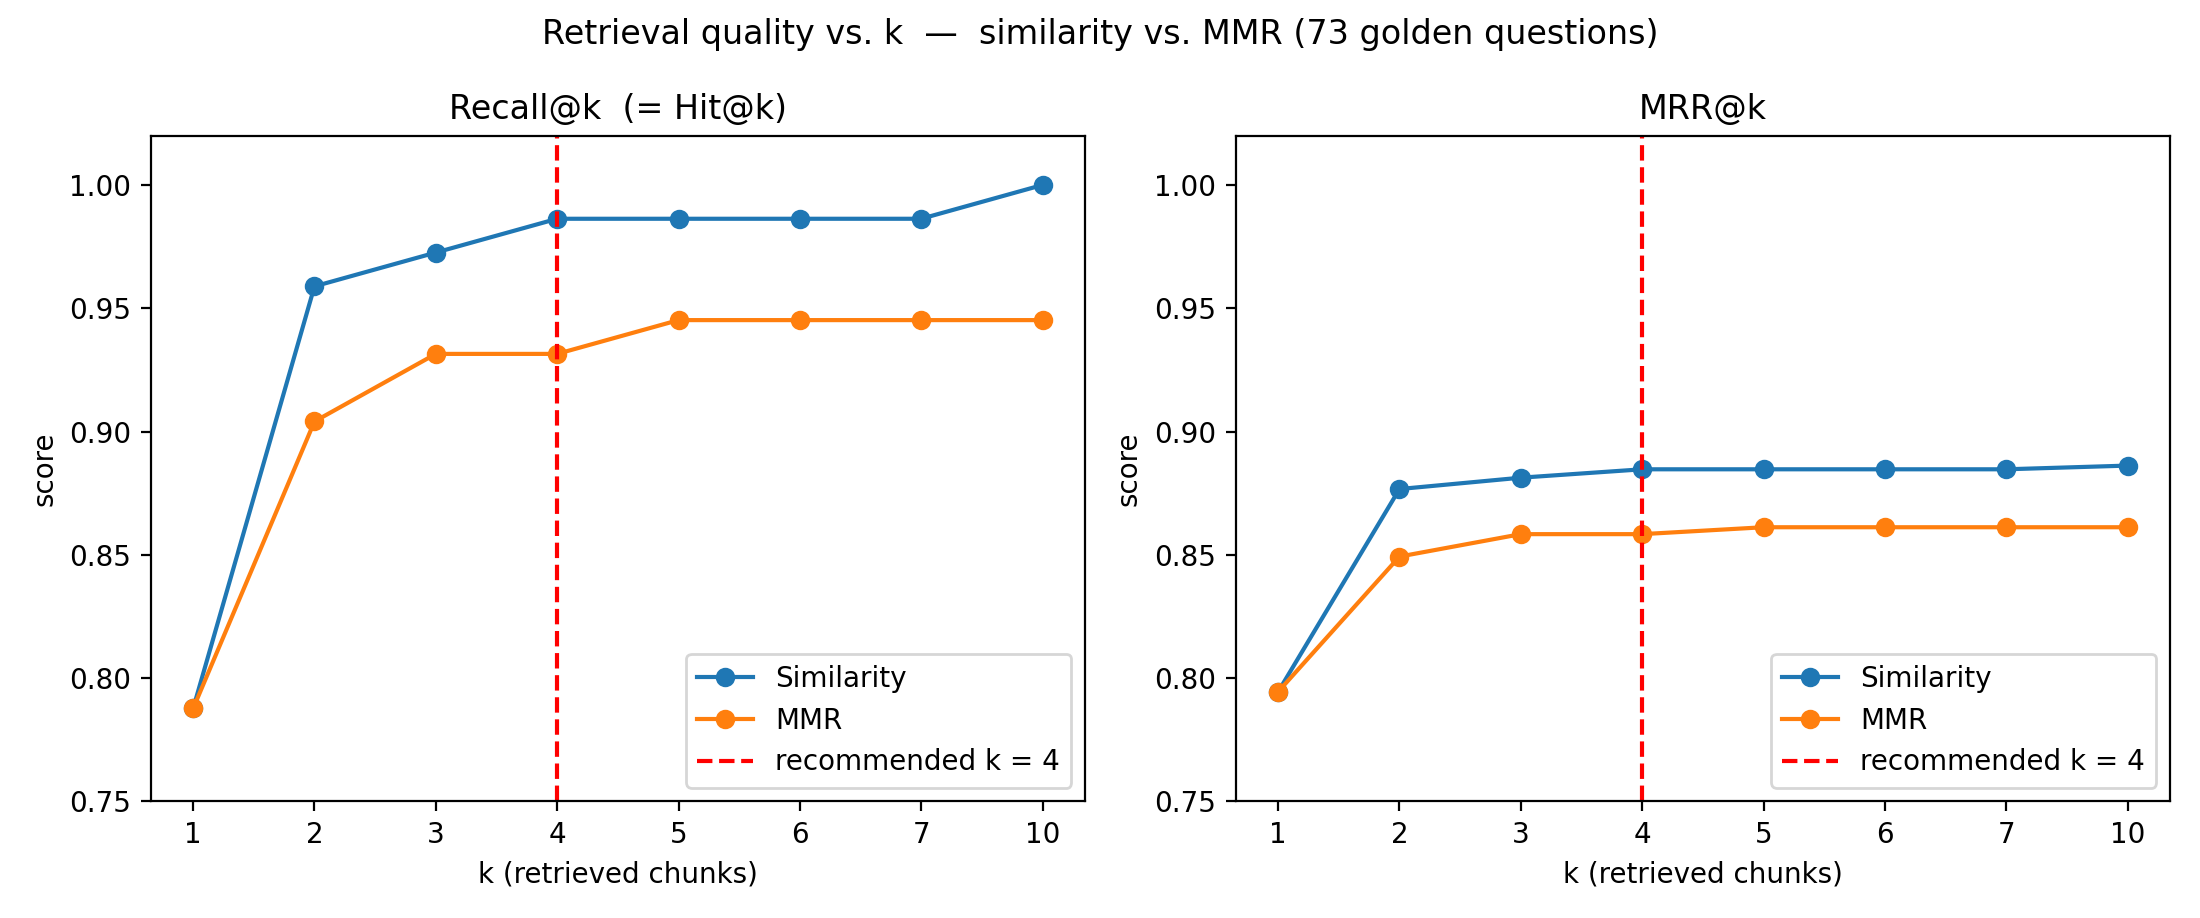
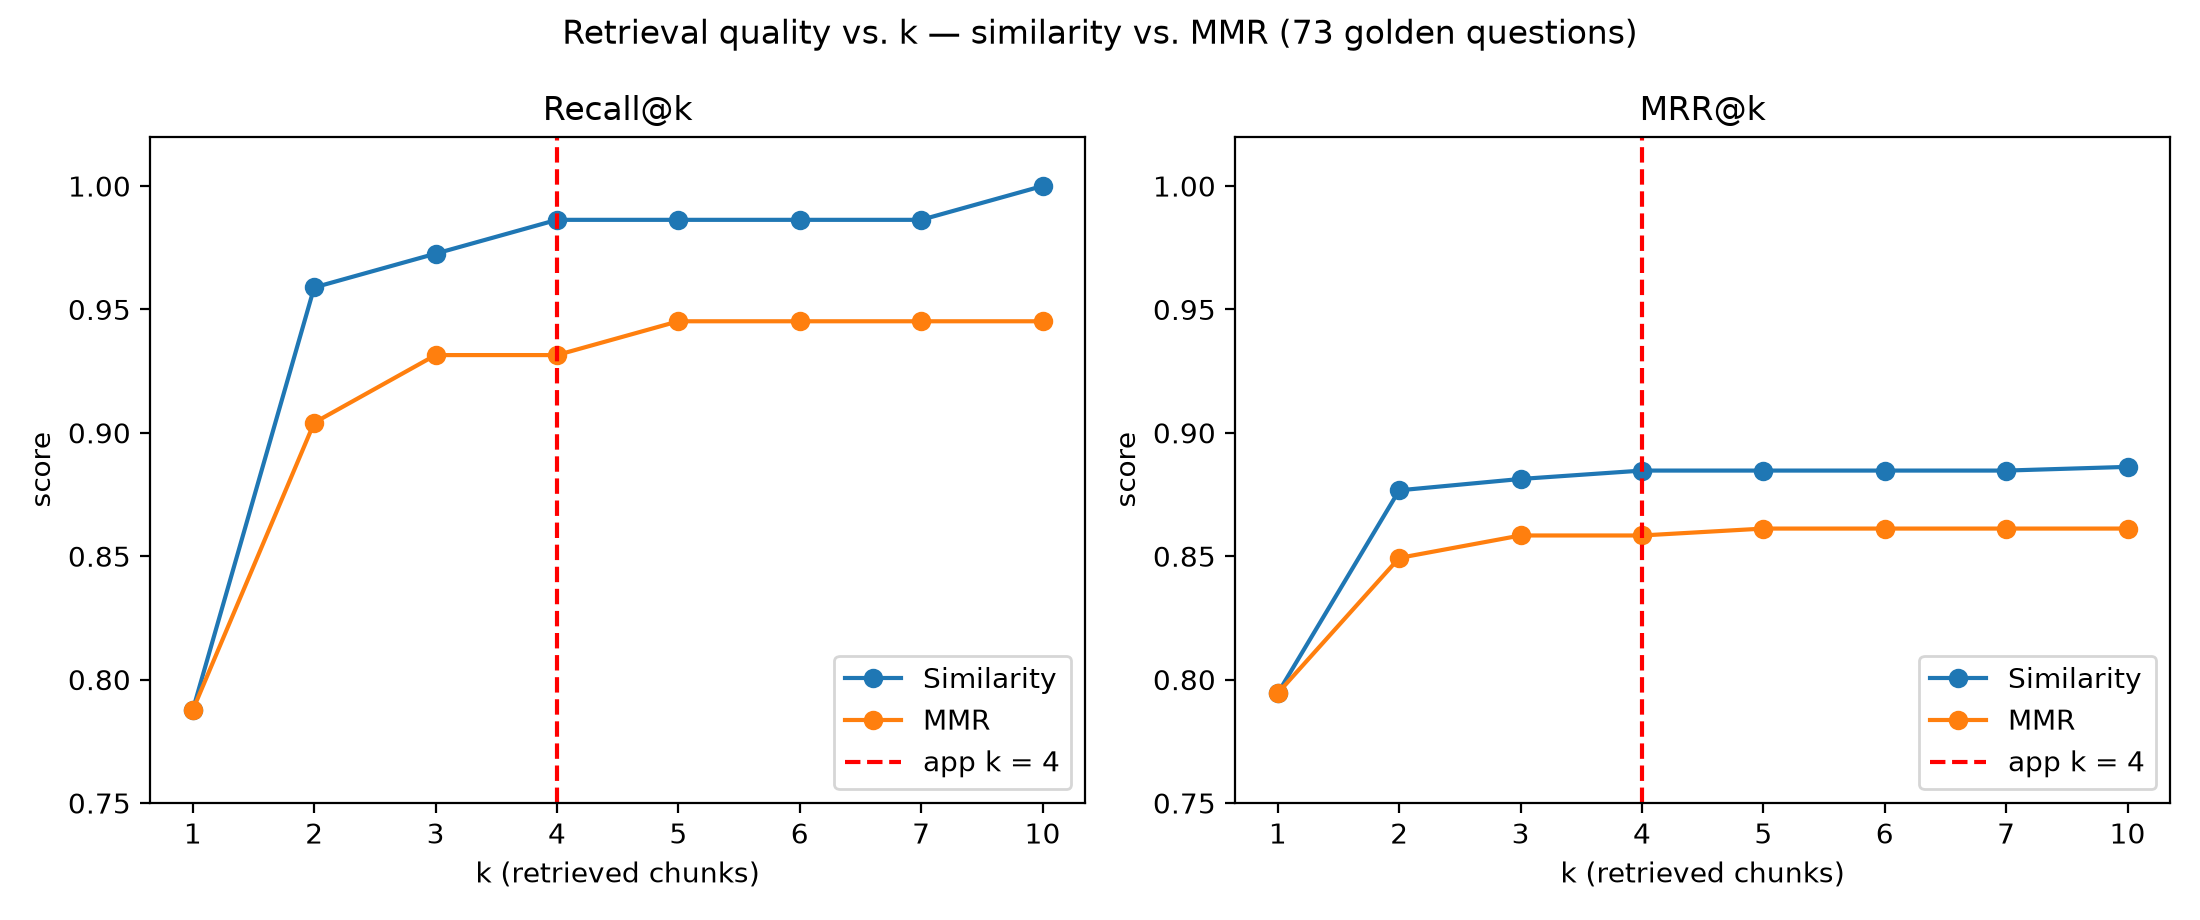
Generate all evaluation charts from code
plot_evals.py redraws the retrieval and generation charts from the saved
reports without loading any model; the charts were previously hand-made.
evaluate_retrieval.py now also saves the per-language breakdown it prints.

diff --git a/src/evaluation/plot_evals.py b/src/evaluation/plot_evals.py
@@ -1,0 +1,225 @@
+"""
+plot_evals.py — draw the evaluation charts from the saved reports.
+
+Reads what each eval script wrote to its reports dir and writes the charts next to it:
+
+  evals/retrieval/  from evaluate_retrieval.py (retrieval_eval.csv, retrieval_eval_by_lang.csv)
+    retrieval_eval.png               recall@k and MRR@k vs k, similarity vs MMR
+    retrieval_eval_by_language.png   hit@1, hit@k and MRR@k, Portuguese vs English
+  evals/generation/  from evaluate_generation.py (generation_eval.json, ragas_per_row.csv
+                     + the golden set)
+    generation_eval.png              RAGAS + refusal bars, and retrieval distance by type
+    generation_eval_by_language.png  the same scores split Portuguese vs English
+
+The k marked on the retrieval charts is the app's retrieval.k. Charts whose inputs are
+missing are skipped. No models are loaded, so it runs in seconds. matplotlib lives in
+the notebooks group:
+  uv run --group notebooks python src/evaluation/plot_evals.py
+"""
+
+import json
+import sys
+from pathlib import Path
+
+import matplotlib
+matplotlib.use("Agg")
+import matplotlib.pyplot as plt  # noqa: E402
+import pandas as pd  # noqa: E402
+
+sys.path.insert(0, str(Path(__file__).resolve().parent.parent))  # src/, for config
+from config import CFG, ROOT  # noqa: E402
+
+RETRIEVAL_DIR = CFG["paths"]["retrieval_reports"]
+GENERATION_DIR = CFG["paths"]["generation_reports"]
+GOLDEN_PATH = CFG["paths"]["golden"]
+APP_K = CFG["retrieval"]["k"]
+SEARCH_TYPE_LABELS = {"similarity": "Similarity", "mmr": "MMR"}
+
+NEGATIVE_TYPES = ("out_of_scope", "unanswerable_on_topic")
+METRICS = [("faithfulness", "Faithfulness"),
+           ("answer_relevancy", "Answer\nrelevancy"),
+           ("semantic_similarity", "Semantic\nsimilarity")]
+DISTANCE_ROWS = [("answerable", "Answerable", "tab:blue"),
+                 ("unanswerable_on_topic", "Unanswerable\non-topic", "tab:orange"),
+                 ("out_of_scope", "Out of scope", "tab:green")]
+LANGUAGES = [("pt", "Portuguese", "tab:blue"), ("en", "English", "tab:orange")]
+DISTANCE_CUTOFF = 0.50   # illustrative only; the app does not filter on distance
+
+
+def load_reports():
+    summary = json.loads((GENERATION_DIR / "generation_eval.json").read_text(encoding="utf-8"))
+    per_row = pd.read_csv(GENERATION_DIR / "ragas_per_row.csv")
+    golden = json.loads(GOLDEN_PATH.read_text(encoding="utf-8"))
+    return summary, per_row, golden
+
+
+def refusal_by_language(summary, golden):
+    """
+    {lang: (declined, n)} over the negatives. The report only lists the leaked ids, so
+    the per-language split comes from the golden set's language tags.
+    """
+    leaked = {i for t in NEGATIVE_TYPES for i in summary["refusal"][t]["leaked"]}
+    out = {}
+    for lang, _, _ in LANGUAGES:
+        ids = [r["id"] for r in golden if r["type"] in NEGATIVE_TYPES and r["language"] == lang]
+        out[lang] = (sum(i not in leaked for i in ids), len(ids))
+    return out
+
+
+def _label_bars(ax, bars, fmt="{:.2f}", **kw):
+    for b in bars:
+        ax.annotate(fmt.format(b.get_height()), (b.get_x() + b.get_width() / 2, b.get_height()),
+                    xytext=(0, 3), textcoords="offset points", ha="center", va="bottom", **kw)
+
+
+def plot_overall(summary, per_row, path):
+    judge = summary.get("judge", "local Ollama")
+    refusal = summary["refusal"]
+    declined = sum(refusal[t]["declined"] for t in NEGATIVE_TYPES)
+    n_neg = sum(refusal[t]["n"] for t in NEGATIVE_TYPES)
+
+    scores = [per_row[m].mean() for m, _ in METRICS] + [declined / n_neg]
+    labels = [lbl for _, lbl in METRICS] + ["Refusal rate"]
+    counts = [per_row[m].notna().sum() for m, _ in METRICS] + [n_neg]
+
+    fig, (ax1, ax2) = plt.subplots(1, 2, figsize=(11.5, 4.8))
+    bars = ax1.bar(labels, scores, width=0.6,
+                   color=["tab:blue"] * len(METRICS) + ["tab:orange"])
+    _label_bars(ax1, bars, fontweight="bold")
+    for b, n in zip(bars, counts):
+        ax1.text(b.get_x() + b.get_width() / 2, 0.03, f"n={n}",
+                 ha="center", color="white", fontsize=9)
+    ax1.set_ylim(0, 1.08)
+    ax1.set_ylabel("score")
+    ax1.set_title("Answer quality  (RAGAS + refusal)")
+
+    dist = summary["distance"]
+    for y, (key, label, color) in enumerate(DISTANCE_ROWS):
+        d = dist[key]
+        ax2.plot([d["min"], d["max"]], [y, y], color=color, alpha=0.35, linewidth=6)
+        ax2.plot([d["min"], d["max"]], [y, y], "o", color=color)
+        ax2.plot(d["median"], y, "D", color=color, markersize=10,
+                 label="median" if y == 0 else None)
+    ax2.axvline(DISTANCE_CUTOFF, color="red", linestyle="--",
+                label=f"example cut-off = {DISTANCE_CUTOFF:.2f}")
+    ax2.set_yticks(range(len(DISTANCE_ROWS)), [lbl for _, lbl, _ in DISTANCE_ROWS])
+    ax2.set_ylim(-0.6, len(DISTANCE_ROWS) - 0.4)
+    ax2.set_xlabel("best retrieval distance  (cosine, lower = closer)")
+    ax2.set_title("Retrieval distance by question type")
+    ax2.legend(loc="lower right")
+
+    fig.suptitle(f"Generation quality — grounded answers & hallucination resistance (judge: {judge})")
+    fig.tight_layout()
+    fig.savefig(path, dpi=200)
+    plt.close(fig)
+
+
+def plot_by_language(summary, per_row, golden, path):
+    judge = summary.get("judge", "local Ollama")
+    refusal = refusal_by_language(summary, golden)
+    labels = [lbl for _, lbl in METRICS] + ["Refusal\nrate"]
+    x = range(len(labels))
+    width = 0.38
+
+    fig, ax = plt.subplots(figsize=(8.5, 5))
+    for offset, (lang, name, color) in zip((-width / 2, width / 2), LANGUAGES):
+        rows = per_row[per_row["language"] == lang]
+        declined, n_neg = refusal[lang]
+        scores = [rows[m].mean() for m, _ in METRICS] + [declined / n_neg if n_neg else 0]
+        bars = ax.bar([i + offset for i in x], scores, width,
+                      color=color, label=f"{name} (n={len(rows)})")
+        _label_bars(ax, bars, fontsize=10)
+
+    neg_note = " · ".join(f"{lang} n={refusal[lang][1]}" for lang, _, _ in LANGUAGES)
+    ax.text(len(labels) - 1, 0.05, neg_note, ha="center", fontsize=9, color="0.3")
+    ax.set_xticks(list(x), labels)
+    ax.set_ylim(0, 1.3)
+    ax.set_ylabel("score")
+    ax.set_title("Answer quality by language (RAGAS + refusal)")
+    ax.legend(loc="upper center", ncol=2)
+    fig.suptitle(f"Generation — Portuguese vs. English (judge: {judge})")
+    fig.tight_layout()
+    fig.savefig(path, dpi=200)
+    plt.close(fig)
+
+
+def plot_retrieval(results, path):
+    n = int(results["n"].iloc[0])
+    fig, axes = plt.subplots(1, 2, figsize=(11, 4.6))
+    for ax, (col, title) in zip(axes, [("recall@k", "Recall@k"), ("MRR", "MRR@k")]):
+        for st, rows in results.groupby("search_type", sort=False):
+            # categorical x so the uneven sweep (…, 7, 10) stays evenly spaced
+            ax.plot(rows["k"].astype(str), rows[col], "o-", label=SEARCH_TYPE_LABELS.get(st, st))
+        ks = [str(k) for k in results["k"].drop_duplicates()]
+        if str(APP_K) in ks:
+            ax.axvline(ks.index(str(APP_K)), color="red", linestyle="--",
+                       label=f"app k = {APP_K}")
+        ax.set_ylim(0.75, 1.02)
+        ax.set_xlabel("k (retrieved chunks)")
+        ax.set_ylabel("score")
+        ax.set_title(title)
+        ax.legend(loc="lower right")
+    fig.suptitle(f"Retrieval quality vs. k — similarity vs. MMR ({n} golden questions)")
+    fig.tight_layout()
+    fig.savefig(path, dpi=200)
+    plt.close(fig)
+
+
+def plot_retrieval_by_language(by_lang, path, search_type="similarity"):
+    rows = by_lang[by_lang["search_type"] == search_type]
+    metrics = [(1, "hit@k", "Hit@1"), (APP_K, "hit@k", f"Hit@{APP_K}"),
+               (APP_K, "MRR", f"MRR@{APP_K}")]
+    x = range(len(metrics))
+    width = 0.38
+
+    fig, ax = plt.subplots(figsize=(8, 5))
+    total = 0
+    for offset, (lang, name, color) in zip((-width / 2, width / 2), LANGUAGES):
+        lang_rows = rows[rows["language"] == lang].set_index("k")
+        if lang_rows.empty:
+            continue
+        n = int(lang_rows["n"].iloc[0])
+        total += n
+        scores = [lang_rows.loc[k, col] for k, col, _ in metrics]
+        bars = ax.bar([i + offset for i in x], scores, width, color=color, label=f"{name} (n={n})")
+        _label_bars(ax, bars, fontsize=10)
+    ax.set_xticks(list(x), [lbl for _, _, lbl in metrics])
+    ax.set_ylim(0, 1.3)
+    ax.set_ylabel("score")
+    ax.set_title(f"Retrieval quality by language ({search_type})")
+    ax.legend(loc="upper center", ncol=2)
+    fig.suptitle(f"Retrieval — Portuguese vs. English ({total} answerable questions)")
+    fig.tight_layout()
+    fig.savefig(path, dpi=200)
+    plt.close(fig)
+
+
+def main():
+    saved = []
+
+    retrieval_csv = RETRIEVAL_DIR / "retrieval_eval.csv"
+    by_lang_csv = RETRIEVAL_DIR / "retrieval_eval_by_lang.csv"
+    if retrieval_csv.exists():
+        out = RETRIEVAL_DIR / "retrieval_eval.png"
+        plot_retrieval(pd.read_csv(retrieval_csv), out)
+        saved.append(out)
+    if by_lang_csv.exists():
+        out = RETRIEVAL_DIR / "retrieval_eval_by_language.png"
+        plot_retrieval_by_language(pd.read_csv(by_lang_csv), out)
+        saved.append(out)
+
+    if (GENERATION_DIR / "generation_eval.json").exists() and (GENERATION_DIR / "ragas_per_row.csv").exists():
+        summary, per_row, golden = load_reports()
+        out, out_lang = GENERATION_DIR / "generation_eval.png", GENERATION_DIR / "generation_eval_by_language.png"
+        plot_overall(summary, per_row, out)
+        plot_by_language(summary, per_row, golden, out_lang)
+        saved += [out, out_lang]
+
+    if not saved:
+        print("nothing saved (no reports found)")
+    for path in saved:
+        print(f"saved -> {path.relative_to(ROOT)}")
+
+
+if __name__ == "__main__":
+    main()

diff --git a/src/evaluation/evaluate_retrieval.py b/src/evaluation/evaluate_retrieval.py
@@ -139,7 +139,22 @@ def _save_csv(results, path):
         w.writerow(["search_type", "k", "n", "hit@k", "recall@k", "MRR"])
         for (st, k), m in results.items():
             w.writerow([st, k, m["n"], f"{m['hit']:.4f}", f"{m['recall']:.4f}", f"{m['mrr']:.4f}"])
- 
+
+
+def _save_lang_csv(per_lang, path):
+    """
+    Save the per-language breakdown (every search_type and k) for plotting.
+    """
+    path.parent.mkdir(parents=True, exist_ok=True)
+
+    with open(path, "w", newline="") as f:
+        w = csv.writer(f)
+        w.writerow(["search_type", "language", "k", "n", "hit@k", "recall@k", "MRR"])
+        for (st, k, lang), v in sorted(per_lang.items()):
+            n = len(v["hit"])
+            w.writerow([st, lang, k, n, f"{sum(v['hit'])/n:.4f}",
+                        f"{sum(v['recall'])/n:.4f}", f"{sum(v['mrr'])/n:.4f}"])
+
  
 def main():
     # Load the golden set and evaluate the retriever.
@@ -160,7 +175,9 @@ def main():
     # Save results to CSV for sharing/plotting.
     out = REPORT_DIR / "retrieval_eval.csv"
     _save_csv(results, out)
-    print(f"\nsaved -> {out}")
+    out_lang = REPORT_DIR / "retrieval_eval_by_lang.csv"
+    _save_lang_csv(per_lang, out_lang)
+    print(f"\nsaved -> {out}, {out_lang.name}")
  
  
 if __name__ == "__main__":

diff --git a/README.md b/README.md
@@ -60,7 +60,8 @@ AskMyThesis/
 │   ├── generation.py               # Retrieve → grounded prompt → LLM (ollama | hf backend)
 │   └── evaluation/
 │       ├── evaluate_retrieval.py   # recall@k / hit@k / MRR vs the golden set
-│       └── evaluate_generation.py  # RAGAS + refusal + distance-by-type checks
+│       ├── evaluate_generation.py  # RAGAS + refusal + distance-by-type checks
+│       └── plot_evals.py           # draws all eval charts from the saved reports
 ├── assets/architecture.png         # architecture diagram
 ├── data/
 │   ├── raw/thesis.pdf              # source document
@@ -186,7 +187,7 @@ Everything is scored against `data/golden/golden.json`, a hand-built set of **12
 python src/evaluation/evaluate_retrieval.py
 ```
 
-Sweeps `k` and search type (similarity vs MMR), reporting recall@k, hit@k, and MRR with a per-language breakdown. Entirely local, no LLM and no API cost. It uses section-prefix matching, so a `2.3.1` chunk credits a `2.3` label.
+Sweeps `k` and search type (similarity vs MMR), reporting recall@k, hit@k, and MRR with a per-language breakdown, saved with its charts to `evals/retrieval/` (`retrieval_eval.csv`, `retrieval_eval_by_lang.csv`). Entirely local, no LLM and no API cost. It uses section-prefix matching, so a `2.3.1` chunk credits a `2.3` label.
 
 Results (similarity):
 
@@ -197,7 +198,9 @@ Results (similarity):
 | **5** | **0.99** | **0.99** | **0.88** |
 | 10 | 1.00 | 1.00 | 0.89 |
 
-Similarity beats MMR at every k on this corpus, and retrieval is near-saturated by k=5.
+Similarity beats MMR at every k above 1 (they tie at k=1) on this corpus, and retrieval is near-saturated by k=5.
+
+![Retrieval quality vs k: recall@k and MRR@k for similarity and MMR search, with the app's k=4 marked](evals/retrieval/retrieval_eval.png)
 
 ### Generation
 
@@ -225,7 +228,7 @@ Results (judge `gemma3:12b`):
 
 ![Generation results: faithfulness 0.97, answer relevancy 0.83, semantic similarity 0.83, refusal rate 1.00, alongside best retrieval distance by question type](evals/generation/generation_eval.png)
 
-Outputs land in `evals/generation/` (`generation_eval.json`, `ragas_per_row.csv`, plots). `factual_correctness` is disabled by default, since its claim-decomposition step needs strict JSON the earlier `qwen2.5:14b` judge could not emit reliably. It has not been retried with `gemma3:12b`, and can be re-enabled in `eval.generation.ragas_metrics`.
+Outputs land in `evals/generation/` (`generation_eval.json`, `ragas_per_row.csv`, charts). Redraw all the charts (retrieval and generation) from the saved reports in seconds, without loading any model, with `uv run --group notebooks python src/evaluation/plot_evals.py`. `factual_correctness` is disabled by default, since its claim-decomposition step needs strict JSON the earlier `qwen2.5:14b` judge could not emit reliably. It has not been retried with `gemma3:12b`, and can be re-enabled in `eval.generation.ragas_metrics`.
 
 **Why a judge from a different family.** LLM judges tend to rate text from their own model family more favourably (self-preference bias). [Pombal et al. (2026)](https://arxiv.org/abs/2604.06996) show this holds even for binary yes/no verdicts on objective criteria. The first judge, `qwen2.5:14b`, was from the same family as the generator (`qwen2.5:7b`), so I re-scored the same cached answers with Google's `gemma3:12b` and made it the default judge. It scored them no lower (faithfulness 0.95 → 0.97, answer relevancy 0.82 → 0.83, refusal 100% under both), so the earlier results were not inflated by self-preference. The two judges agreed on the averages but only moderately on individual answers, so a single answer's score depends on the judge. Any other Ollama model can be used as the judge by changing `eval.generation.judge_model`. A hosted judge would need a small code change in `get_judge()`.
 
